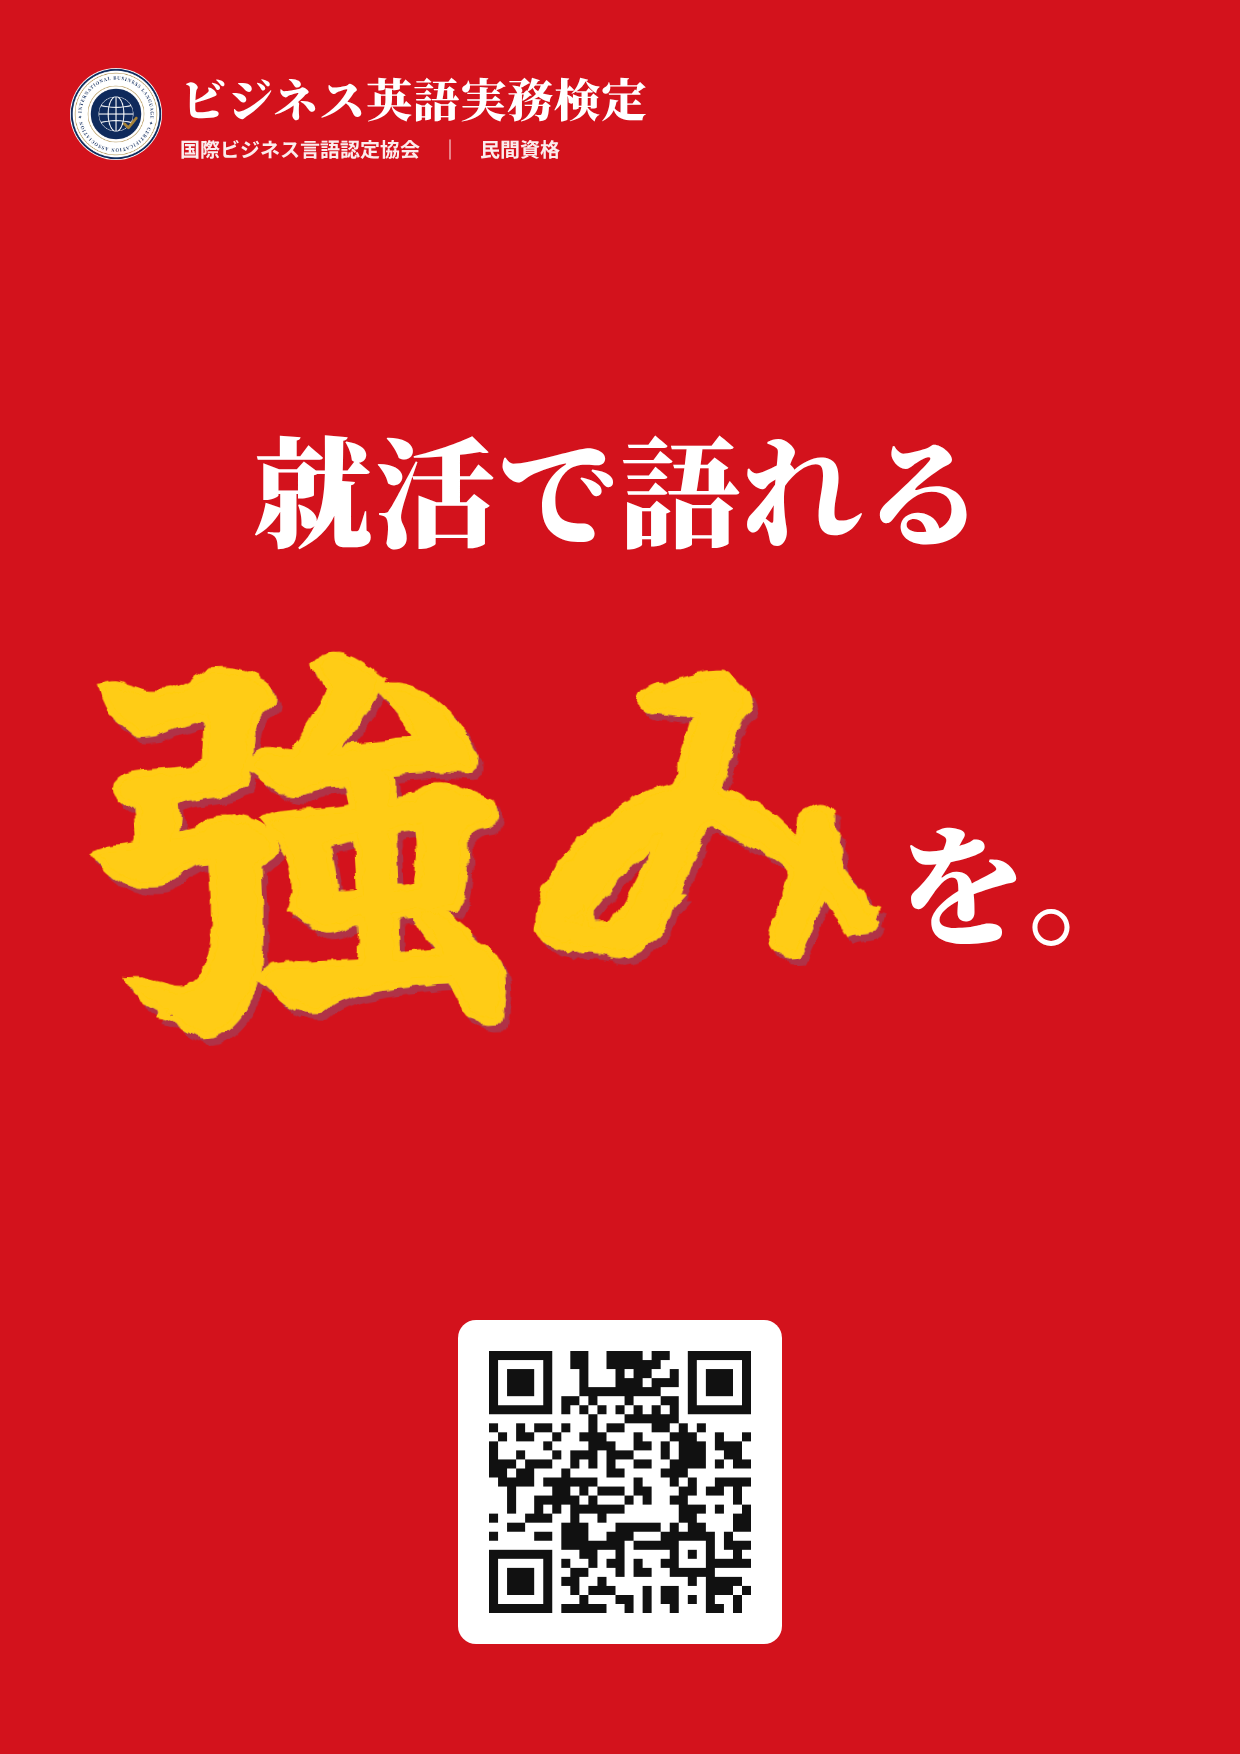
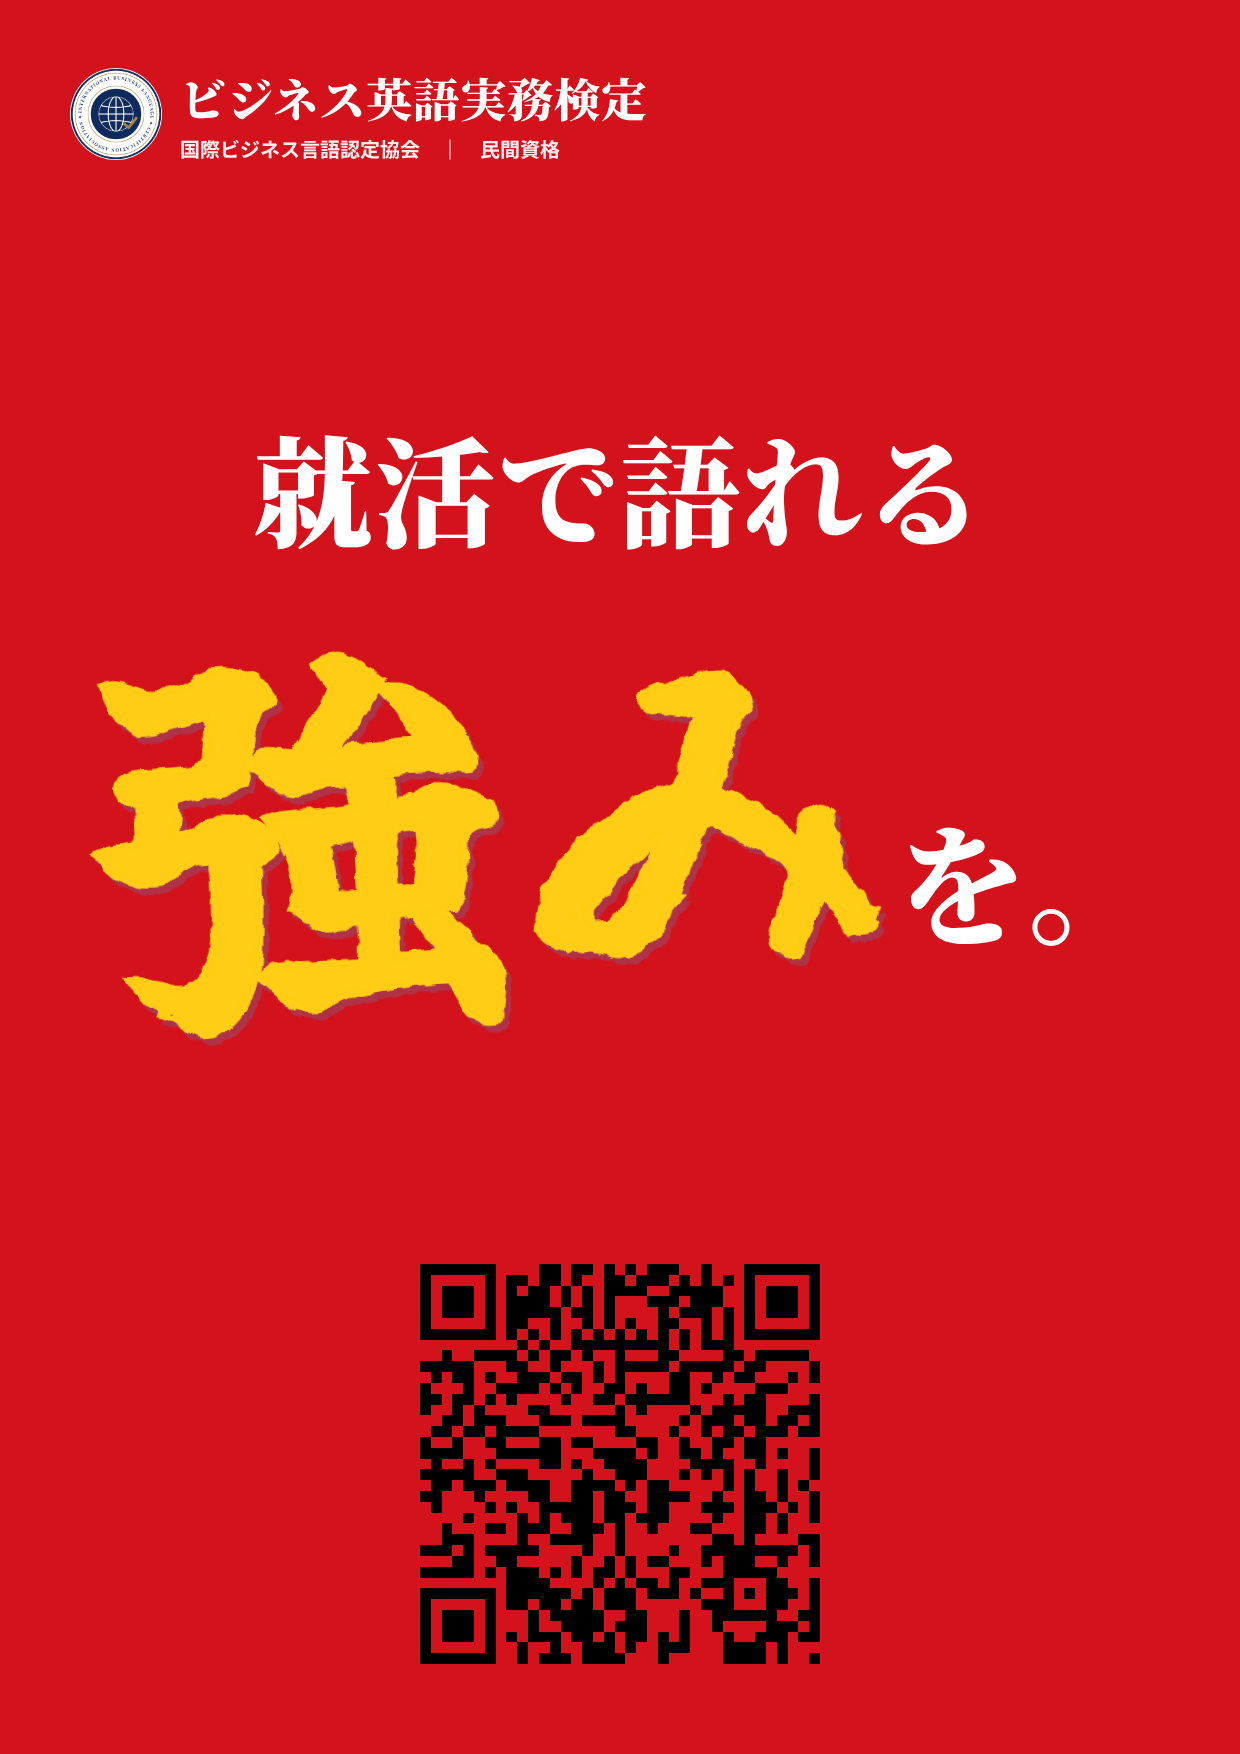
赤チラシのQRを白なし・黒だけ・大きく
Claude-Session: https://claude.ai/code/session_01T3NaLWbuuvRT9b8SoudneK

Changed region(s): [[0.3371, 0.7081, 0.6742, 0.9544]]

diff --git a/連絡帳.md b/連絡帳.md
@@ -88,7 +88,7 @@
 - ①紺：見本 assets/本陣へ/見本_大学チラシ_差をつけろ.png
   - 上に赤い帯「就活生応援キャンペーン」→ ホームページと同じ学生4人の写真（cp-ph4.jpg）をはっきり → 少し明るい紺の地（例 #1b3d72）に「ビジネス英語実務検定 初級」「受験料　無料」（横並び、無料は赤い札）「12/25まで」→ 見出し「履歴書で、周りと差をつけろ！」→ 20分・24時間・合格証 → 白い枠にQRと「履歴書を、より強く。強みを、より多く。」
 - ②赤：見本 assets/本陣へ/見本_大学チラシ_強み_赤.png
-  - 全面赤。左上に「ビジネス英語実務検定」ロゴ（国際ビジネス言語認定協会｜民間資格）。真ん中に「就活で語れる」（白）＋「強み」（はっきりした明るい金 例 #ffcc12 の太い筆文字で特大。ふちがかすれた墨の筆っぽさを出す）＋「を。」（白）。下にQRだけ。ほかの文字は足さない（大将の指示）。
+  - 全面赤。左上に「ビジネス英語実務検定」ロゴ（国際ビジネス言語認定協会｜民間資格）。真ん中に「就活で語れる」（白）＋「強み」（はっきりした明るい金 例 #ffcc12 の太い筆文字で特大。ふちがかすれた墨の筆っぽさを出す）＋「を。」（白）。下にQRだけ（白い台なし・黒だけで大きく。誤り訂正レベルH。印刷前に実物をスマホ数台で読み取り確認）。ほかの文字は足さない（大将の指示）。
 - 上の作戦2（白のチラシ）は、お母さん向けの手渡し・ポスティング用として別に作る。
 
 ### できあがったら（作戦1・2 共通）
